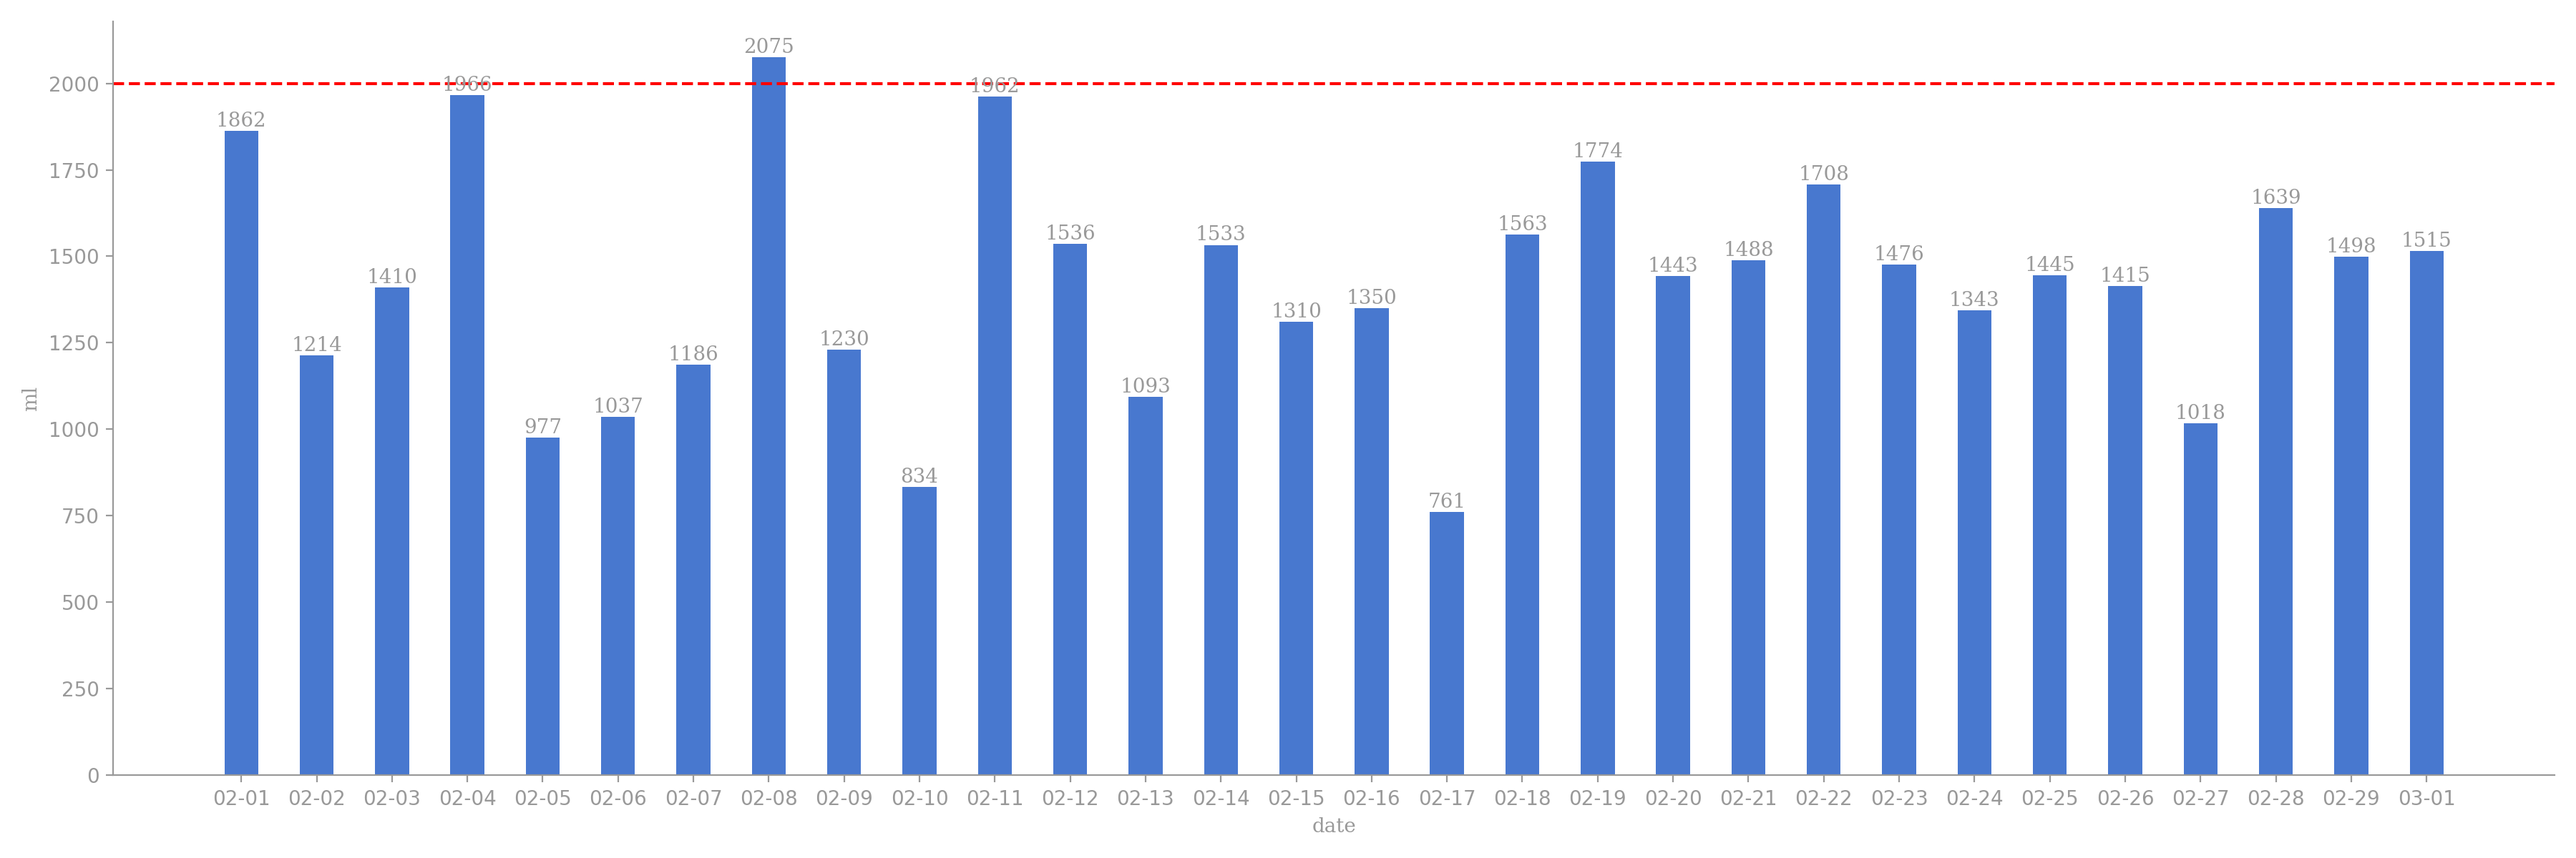
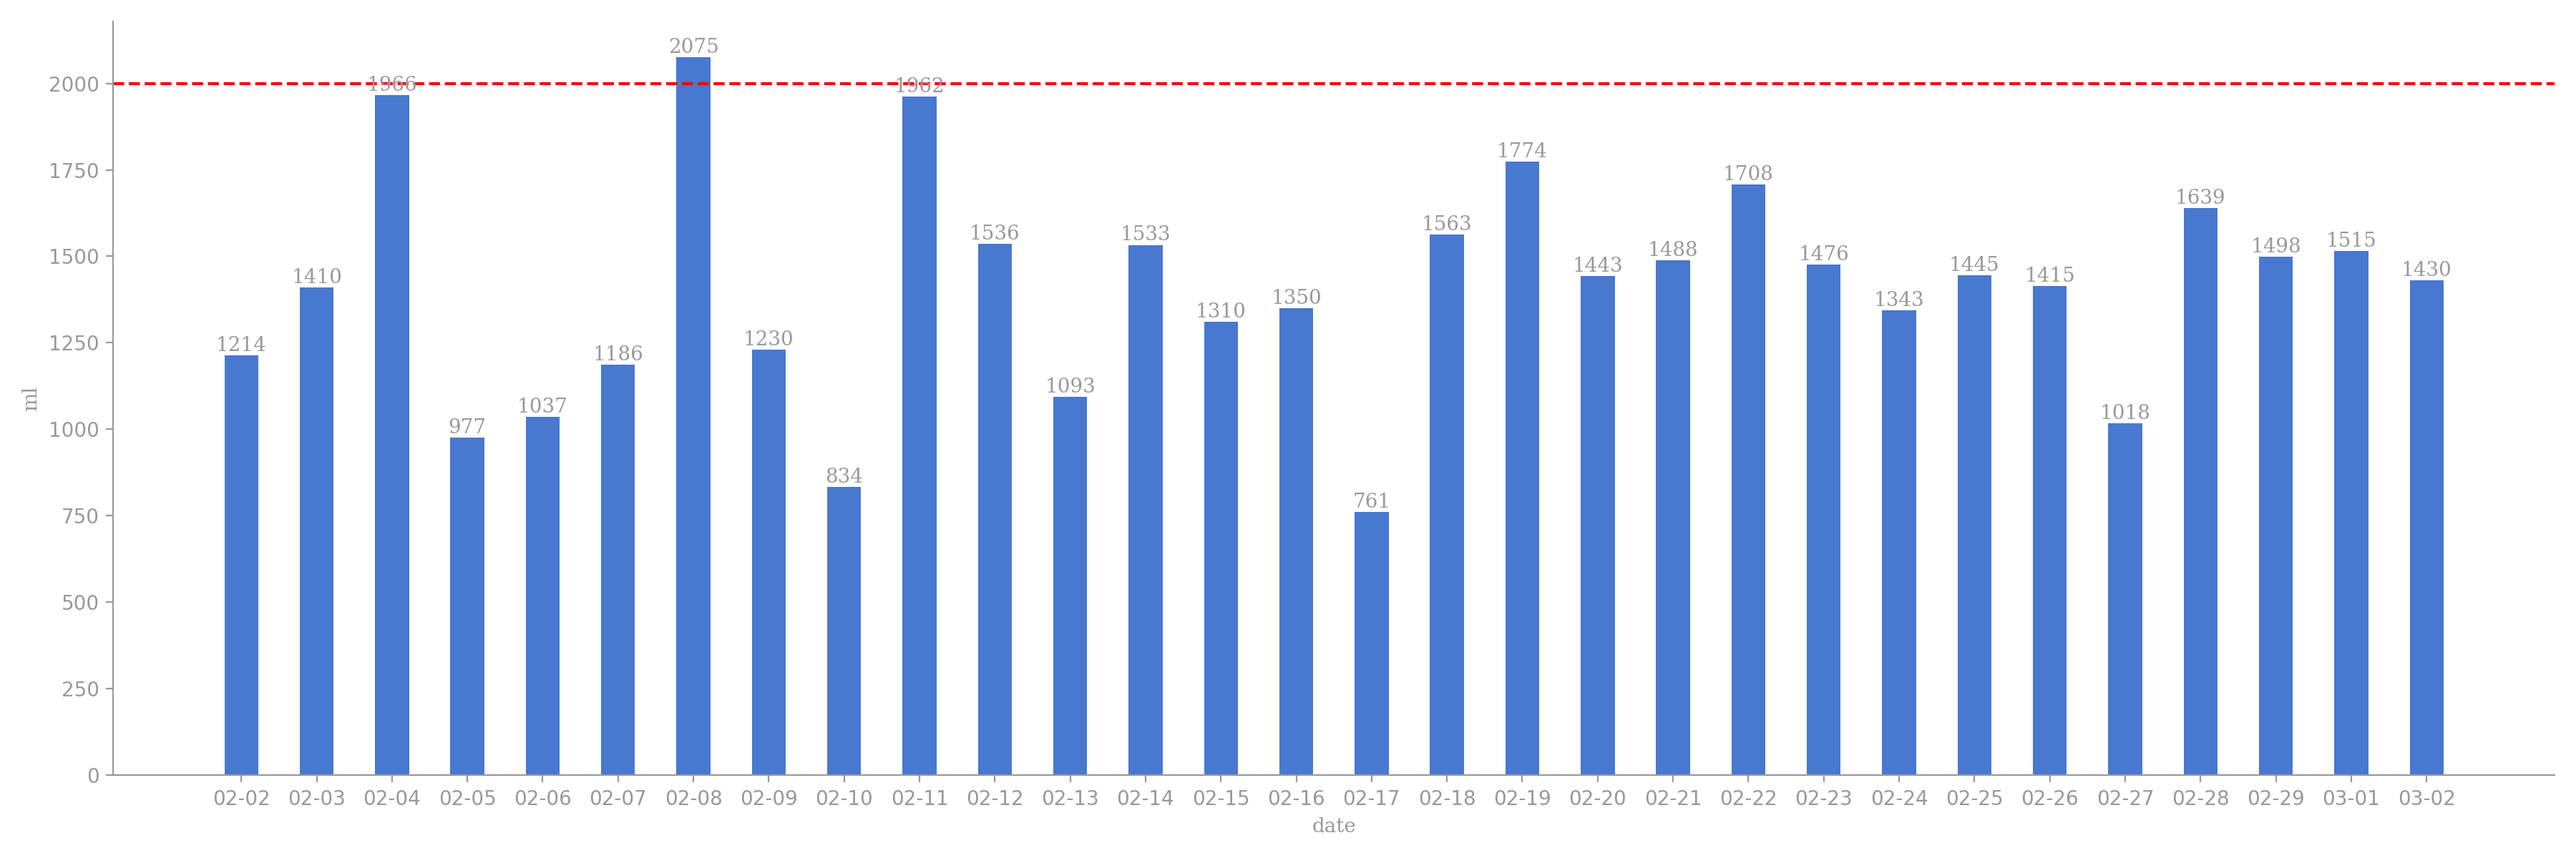
generated readme

Changed region(s): [[0.4044, 0.1542, 0.9644, 0.6167], [0.0622, 0.0308, 0.3111, 0.5242], [0.3111, 0.0925, 0.4044, 0.5858]]

diff --git a/README.md b/README.md
@@ -1,17 +1,3 @@
-# 今日饮水数据
-
-<div align=center>
-<img src="today.png" style="zoom: 100%;" />
-
-| 今日总饮水量 | 每小时平均饮水量 |
-| :----: | :----: |
-| 1430 | 130 |
-</div>
-
-| 日期 | 00:39:35 | 01:37:30 | 03:00:54 | 03:03:19 | 04:21:01 | 06:06:42 | 07:31:04 | 08:07:05 | 19:46:16 | 21:06:51 | 22:24:52 | 23:57:02 |
-| :----: | :----: | :----: | :----: | :----: | :----: | :----: | :----: | :----: | :----: | :----: | :----: | :----: |
-| 2024-03-02 | 200 | 67 | 29 | 45 | 114 | 250 | 89 | 58 | 300 | 76 | 98 | 104 |
-
 # 近30日饮水数据
 
 <div align=center>
@@ -19,8 +5,12 @@
 
 | 总饮水量 | 日均饮水量 |
 | :----: | :----: |
-| 42661 | 1422 |
+| 42229 | 1407 |
 </div>
+
+| 日期 | all | 00:39:35 | 01:37:30 | 03:00:54 | 03:03:19 | 04:21:01 | 06:06:42 | 07:31:04 | 08:07:05 | 19:46:16 | 21:06:51 | 22:24:52 | 23:57:02 |
+| :----: | :----: | :----: | :----: | :----: | :----: | :----: | :----: | :----: | :----: | :----: | :----: | :----: | :----: |
+| 2024-03-02 | 1430 | 200 | 67 | 29 | 45 | 114 | 250 | 89 | 58 | 300 | 76 | 98 | 104 |
 
 | 日期 | all | 00:38:17 | 00:43:36 | 01:24:02 | 01:52:11 | 03:22:22 | 03:52:54 | 04:35:47 | 05:39:52 | 06:14:13 | 07:15:21 | 18:01:18 | 18:02:12 | 22:29:04 |
 | :----: | :----: | :----: | :----: | :----: | :----: | :----: | :----: | :----: | :----: | :----: | :----: | :----: | :----: | :----: |
@@ -141,8 +131,4 @@
 | 日期 | all | 07:58:40 | 08:51:42 | 10:17:10 | 12:14:06 | 15:06:08 | 15:10:51 | 17:15:11 | 17:36:18 | 20:09:36 | 21:09:47 | 22:00:09 | 23:05:49 |
 | :----: | :----: | :----: | :----: | :----: | :----: | :----: | :----: | :----: | :----: | :----: | :----: | :----: | :----: |
 | 2024-02-01 | 1862 | 162 | 123 | 85 | 200 | 400 | 64 | 200 | 73 | 118 | 98 | 250 | 89 |
-
-| 日期 | all | 07:56:58 | 09:00:51 | 10:02:10 | 10:49:15 | 12:06:17 | 13:05:16 | 14:00:20 | 15:02:26 | 17:40:53 | 20:01:14 | 22:03:46 | 23:40:05 |
-| :----: | :----: | :----: | :----: | :----: | :----: | :----: | :----: | :----: | :----: | :----: | :----: | :----: | :----: |
-| 2024-01-31 | 1713 | 108 | 112 | 92 | 108 | 200 | 105 | 104 | 97 | 114 | 300 | 123 | 250 |
 
